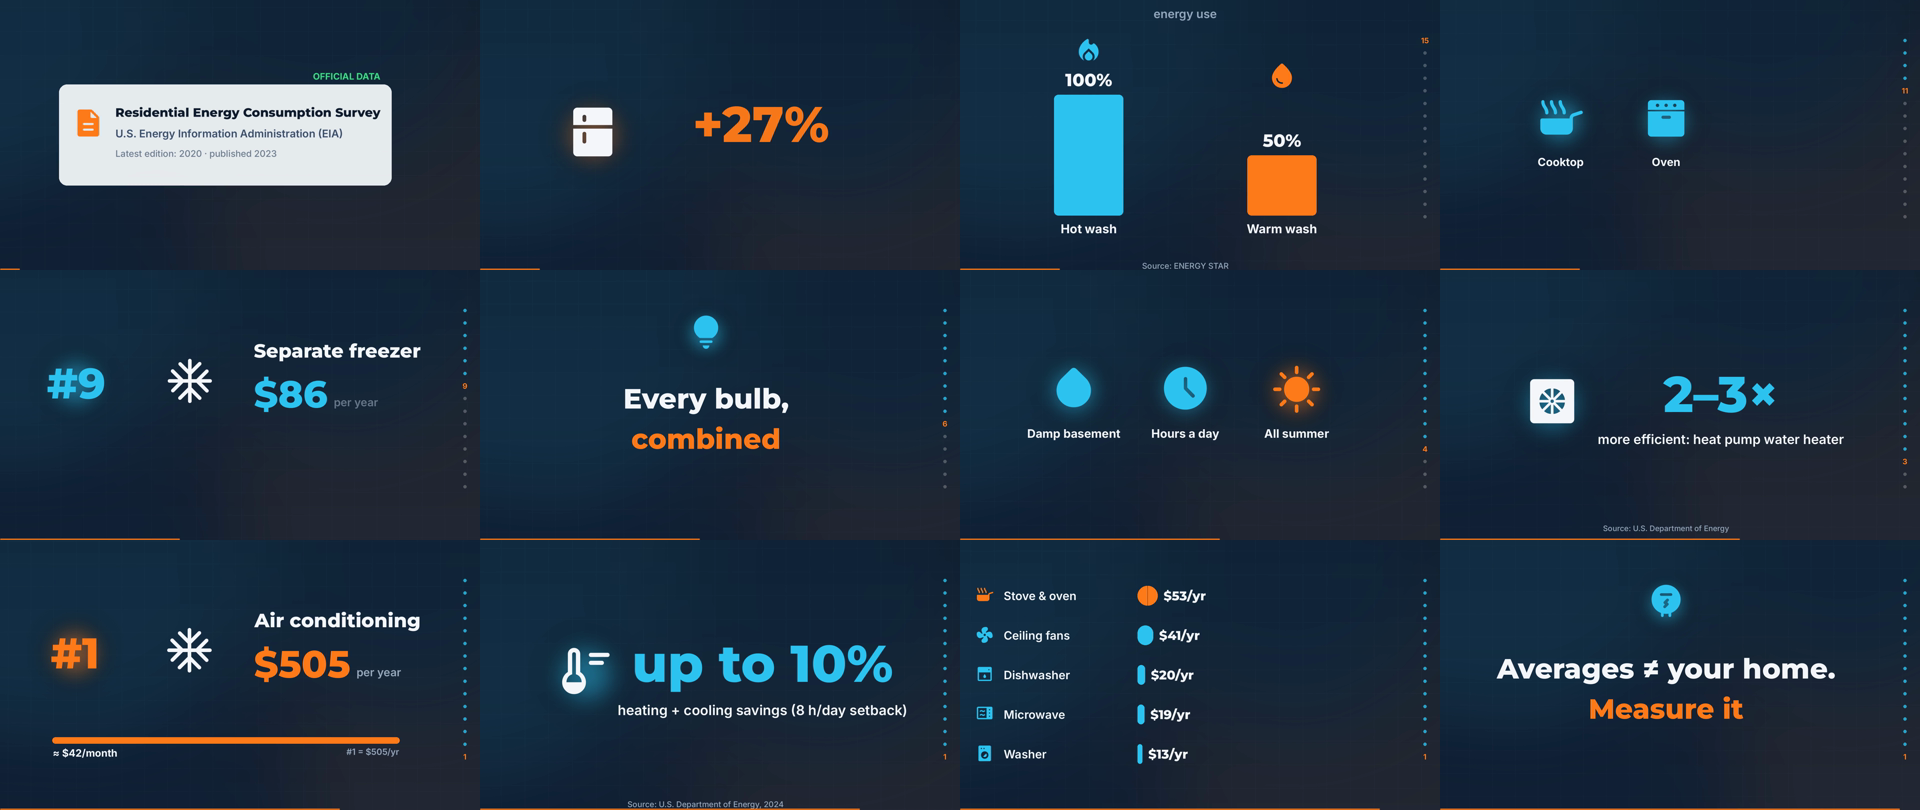
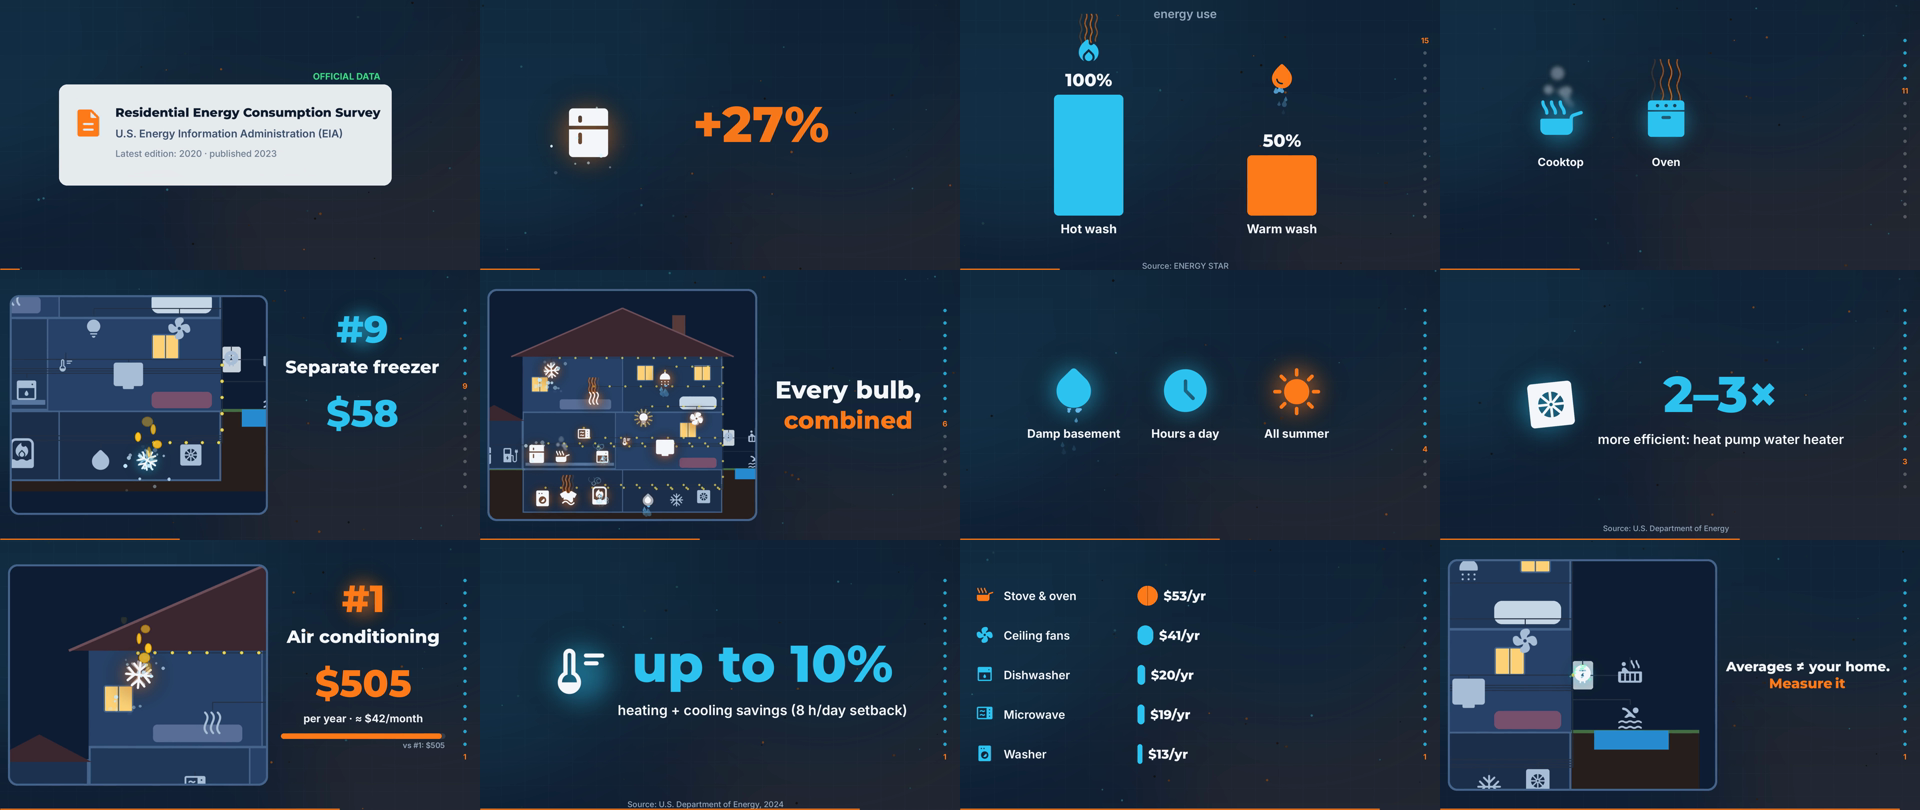
Vídeo 1 y Shorts montados con el estilo visual nuevo
Claude-Session: https://claude.ai/code/session_012oeY9Gxgv7CPhhYsnJNZe7

diff --git a/registro.md b/registro.md
@@ -17,3 +17,4 @@
 - 2026-10-29 · salida/2026-10-30 (largo + Short 1) y salida/2026-10-31 (Short 2) listos para subir a mano. Etiqueta de IA: sí, por prudencia.
 - 2026-10-29 · Paso 7: creada la tarea programada en la nube «Producción diaria · How your home works» (cada día a las 03:17, hora de Madrid; id trig_0168Ts5g1DbDocVRpUauvSVR). Abre una sesión nueva, sigue PRODUCCION_DIARIA.md, sube los cambios y envía los vídeos al humano. Para si hay 7 días o más preparados sin subir. Elegida la opción B porque el humano no ha dicho nada; si prefiere su ordenador, se cambia.
 - 2026-10-29 · El humano ve las animaciones pobres y demasiado texto quieto. Pausada la producción diaria. Nuevo estilo: casa en corte animada (la cámara entra en cada habitación, la electricidad corre desde el contador, salen monedas), aparatos con movimiento propio, monedas en las cifras en dólares, anillo en los porcentajes, contador de la luz, texto palabra a palabra, partículas de fondo y transiciones deslizantes. El texto pasa de 26 a 3 pantallas en el largo. Nueva comprobación en el control: ≤ 10 % de texto.
+- 2026-10-29 · Vídeo largo y Shorts montados de nuevo con el estilo visual nuevo. Control superado (texto: 3/103, 1/8 y 0/7). salida/ actualizada. Producción diaria todavía en pausa, a la espera de que el humano dé el visto bueno al estilo.
